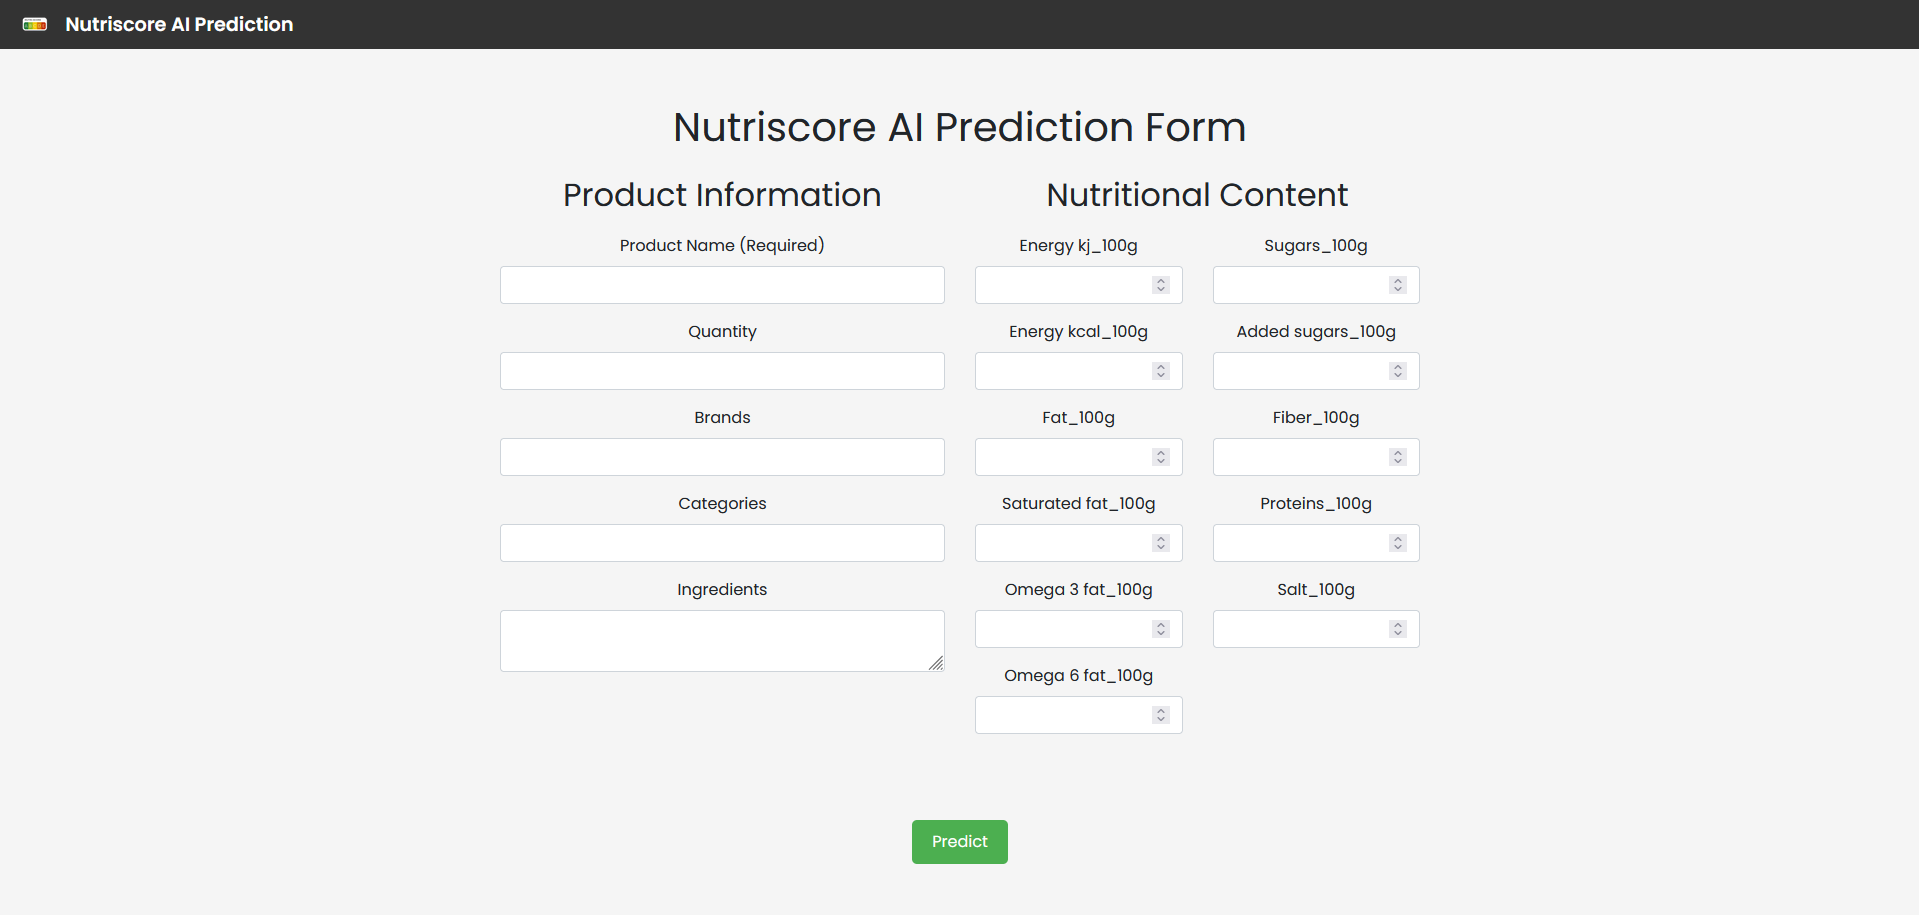
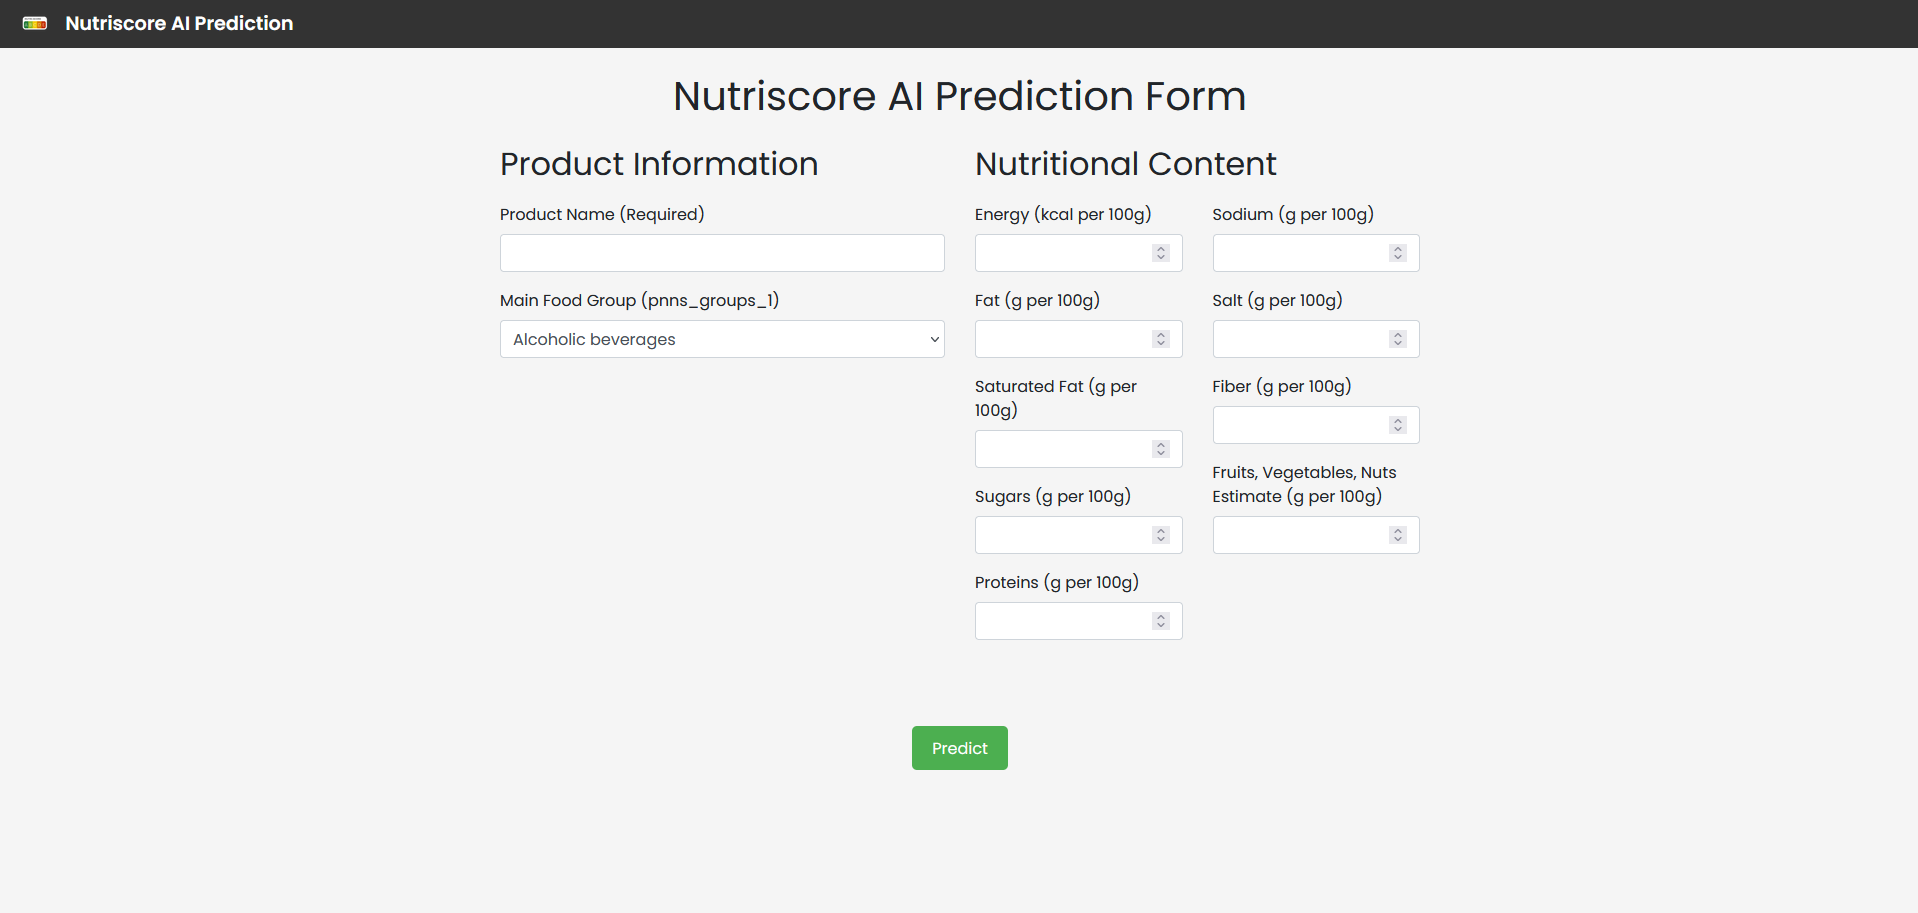
Updated form display + form screenshot

diff --git a/app/templates/prediction_form.html b/app/templates/prediction_form.html
@@ -43,41 +43,47 @@
                 <div class="col-md-5">
                     <div class="section" style="margin-bottom: 50px;">
                         <h2 style="margin-bottom: 20px;">Nutritional Content</h2>
-                        <div class="form-group mb-3">
-                            <label for="energy_kcal_100g">Energy (kcal per 100g)</label>
-                            <input type="number" id="energy_kcal_100g" name="energy_kcal_100g" class="form-control" step="0.01" required>
-                        </div>
-                        <div class="form-group mb-3">
-                            <label for="fat_100g">Fat (g per 100g)</label>
-                            <input type="number" id="fat_100g" name="fat_100g" class="form-control" step="0.01" required>
-                        </div>
-                        <div class="form-group mb-3">
-                            <label for="saturated_fat_100g">Saturated Fat (g per 100g)</label>
-                            <input type="number" id="saturated_fat_100g" name="saturated_fat_100g" class="form-control" step="0.01" required>
-                        </div>
-                        <div class="form-group mb-3">
-                            <label for="sugars_100g">Sugars (g per 100g)</label>
-                            <input type="number" id="sugars_100g" name="sugars_100g" class="form-control" step="0.01" required>
-                        </div>
-                        <div class="form-group mb-3">
-                            <label for="proteins_100g">Proteins (g per 100g)</label>
-                            <input type="number" id="proteins_100g" name="proteins_100g" class="form-control" step="0.01" required>
-                        </div>
-                        <div class="form-group mb-3">
-                            <label for="sodium_100g">Sodium (g per 100g)</label>
-                            <input type="number" id="sodium_100g" name="sodium_100g" class="form-control" step="0.01" required>
-                        </div>
-                        <div class="form-group mb-3">
-                            <label for="salt_100g">Salt (g per 100g)</label>
-                            <input type="number" id="salt_100g" name="salt_100g" class="form-control" step="0.01" required>
-                        </div>
-                        <div class="form-group mb-3">
-                            <label for="fiber_100g">Fiber (g per 100g)</label>
-                            <input type="number" id="fiber_100g" name="fiber_100g" class="form-control" step="0.01" required>
-                        </div>
-                        <div class="form-group mb-3">
-                            <label for="fruits_vegetables_nuts_estimate_from_ingredients_100g">Fruits, Vegetables, Nuts Estimate (g per 100g)</label>
-                            <input type="number" id="fruits_vegetables_nuts_estimate_from_ingredients_100g" name="fruits_vegetables_nuts_estimate_from_ingredients_100g" class="form-control" step="0.01" required>
+                        <div class="row">
+                            <div class="col-md-6">
+                                <div class="form-group mb-3">
+                                    <label for="energy_kcal_100g">Energy (kcal per 100g)</label>
+                                    <input type="number" id="energy_kcal_100g" name="energy_kcal_100g" class="form-control" step="0.01" required>
+                                </div>
+                                <div class="form-group mb-3">
+                                    <label for="fat_100g">Fat (g per 100g)</label>
+                                    <input type="number" id="fat_100g" name="fat_100g" class="form-control" step="0.01" required>
+                                </div>
+                                <div class="form-group mb-3">
+                                    <label for="saturated_fat_100g">Saturated Fat (g per 100g)</label>
+                                    <input type="number" id="saturated_fat_100g" name="saturated_fat_100g" class="form-control" step="0.01" required>
+                                </div>
+                                <div class="form-group mb-3">
+                                    <label for="sugars_100g">Sugars (g per 100g)</label>
+                                    <input type="number" id="sugars_100g" name="sugars_100g" class="form-control" step="0.01" required>
+                                </div>
+                                <div class="form-group mb-3">
+                                    <label for="proteins_100g">Proteins (g per 100g)</label>
+                                    <input type="number" id="proteins_100g" name="proteins_100g" class="form-control" step="0.01" required>
+                                </div>
+                            </div>
+                            <div class="col-md-6">
+                                <div class="form-group mb-3">
+                                    <label for="sodium_100g">Sodium (g per 100g)</label>
+                                    <input type="number" id="sodium_100g" name="sodium_100g" class="form-control" step="0.01" required>
+                                </div>
+                                <div class="form-group mb-3">
+                                    <label for="salt_100g">Salt (g per 100g)</label>
+                                    <input type="number" id="salt_100g" name="salt_100g" class="form-control" step="0.01" required>
+                                </div>
+                                <div class="form-group mb-3">
+                                    <label for="fiber_100g">Fiber (g per 100g)</label>
+                                    <input type="number" id="fiber_100g" name="fiber_100g" class="form-control" step="0.01" required>
+                                </div>
+                                <div class="form-group mb-3">
+                                    <label for="fruits_vegetables_nuts_estimate_from_ingredients_100g">Fruits, Vegetables, Nuts Estimate (g per 100g)</label>
+                                    <input type="number" id="fruits_vegetables_nuts_estimate_from_ingredients_100g" name="fruits_vegetables_nuts_estimate_from_ingredients_100g" class="form-control" step="0.01" required>
+                                </div>
+                            </div>
                         </div>
                     </div>
                 </div>
